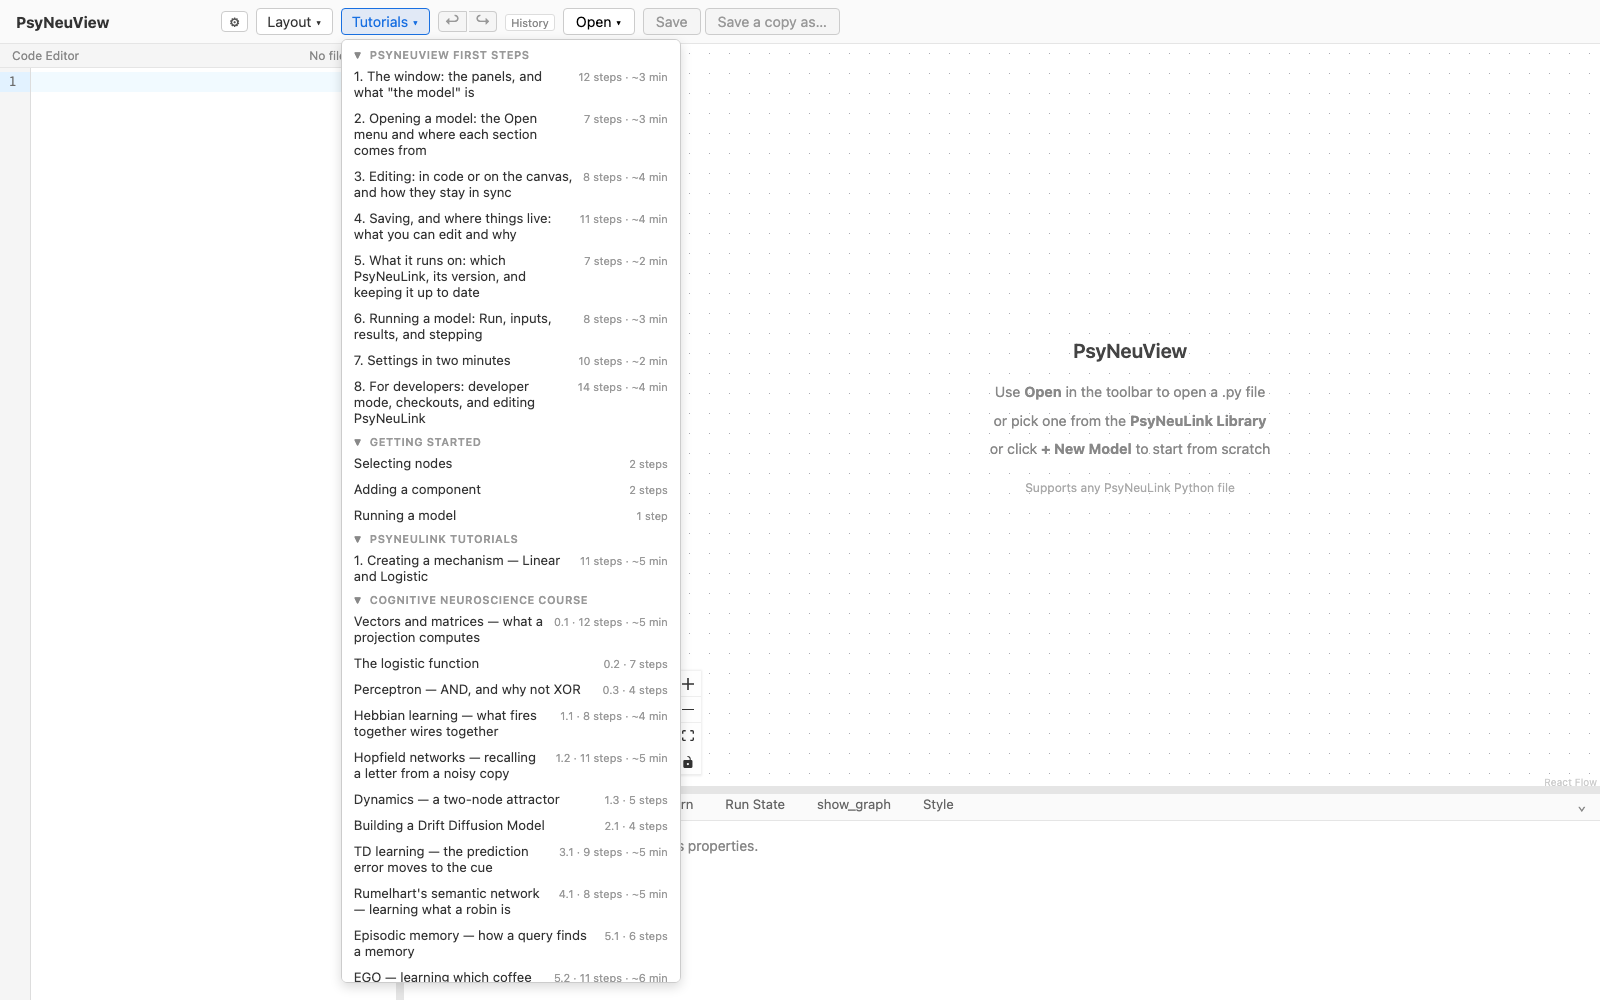
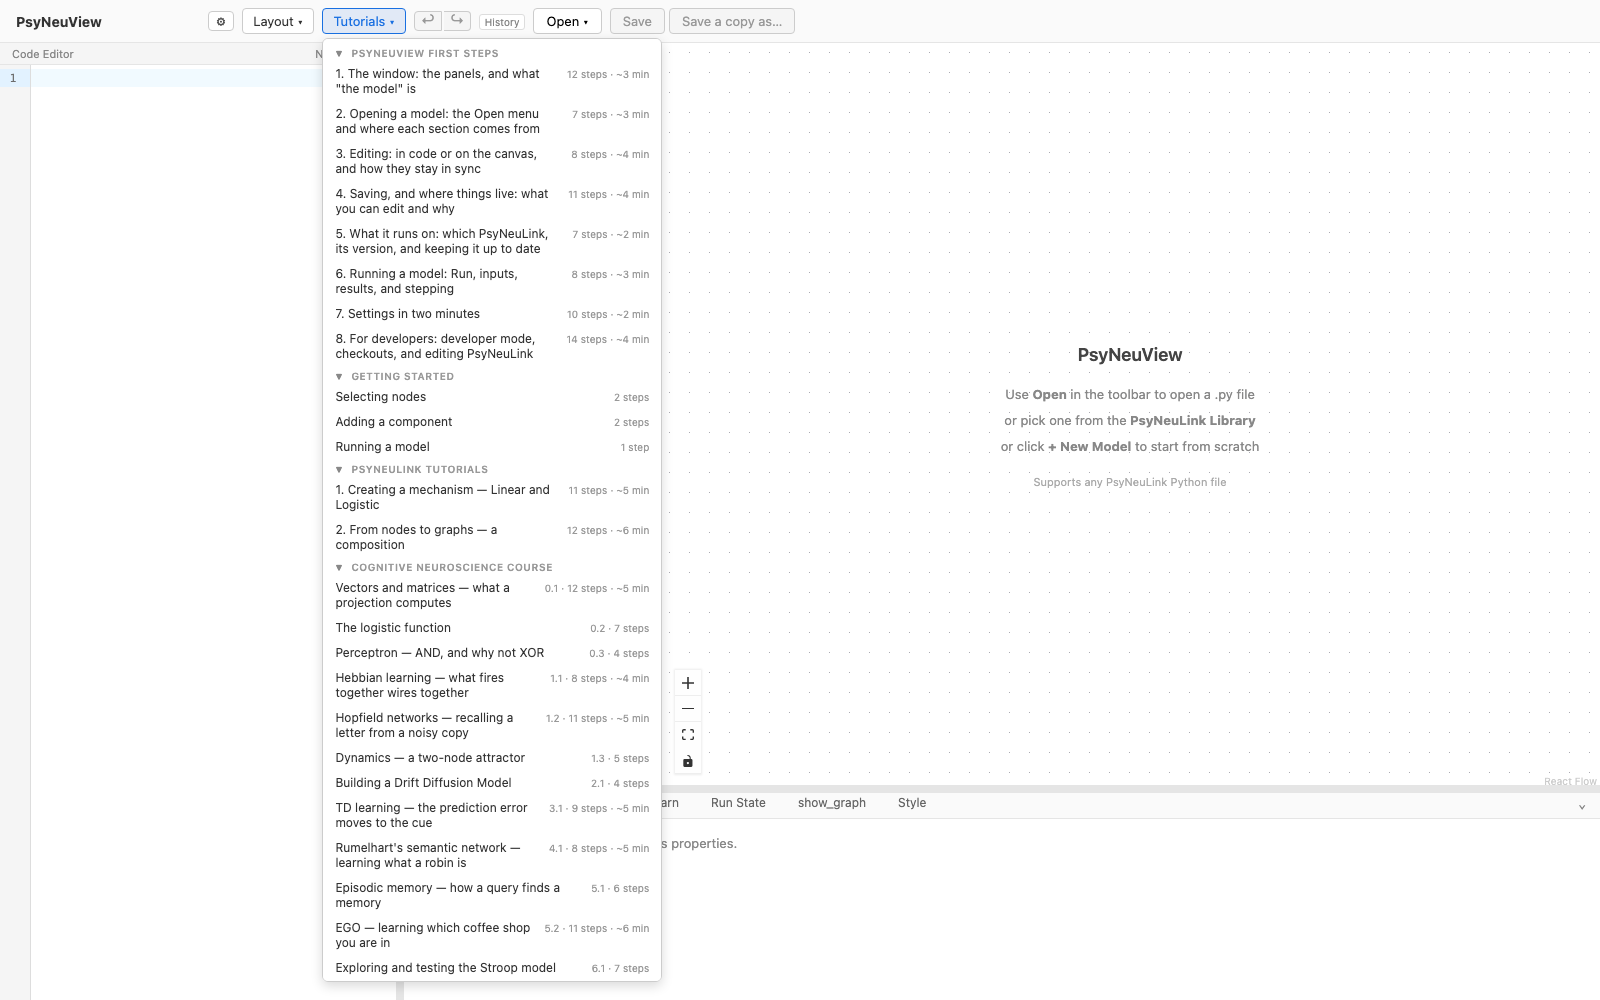
Tutorials e2e: drive the second PsyNeuLink lesson (#9)
Walks pnl-composition from its own YAML and asserts every run on the
model's own results: 4; the sweep -3, -1.5, 0, 1.5, 3; the two-unit
Logistic's 0.2689/0.0474 and 0.7311/0.9526; the step's 4.5e-5/0.99995.
Checks the menu lists it second. Captures the step screenshots, and the
menu screenshot now shows both lessons.

Refs #9

diff --git a/frontend/e2e/tutorials/pnl-composition.tutorial.spec.ts b/frontend/e2e/tutorials/pnl-composition.tutorial.spec.ts
@@ -1,0 +1,79 @@
+/**
+ * PsyNeuLink Tutorials, lesson 2: From nodes to graphs — a composition (#9).
+ *
+ * Driven from `src/walkthroughs/pnl-composition.yaml`, the file the app
+ * reads, so the walkthrough can't drift from the app. It builds from New
+ * Model and runs the notebook's compositions: 4 through two Linear nodes; a
+ * five-trial sweep from -3 to 3; a two-unit Logistic fed x and 3x; and the
+ * step mechanism (gain 100, midpoint 1) with [0.9, 1.1]. This asserts every
+ * output the instructions quote, on the model's own run results.
+ *
+ * Also checks the Tutorials menu lists the lesson second under PsyNeuLink
+ * Tutorials.
+ */
+// mutatingTest: the walkthrough creates a model, so it needs a clean slate.
+import { mutatingTest as test, expect } from "../test-base";
+import { loadWalkthrough, runWalkthrough } from "../tourDriver";
+import { fileURLToPath } from "url";
+import path from "path";
+import { mkdirSync } from "fs";
+
+const ASSETS = path.resolve(
+  path.dirname(fileURLToPath(import.meta.url)),
+  "../../../docs/tutorials/assets/tour",
+);
+mkdirSync(ASSETS, { recursive: true });
+const shot = (name: string) => path.join(ASSETS, name);
+
+const lesson = loadWalkthrough("pnl-composition");
+
+test.use({ viewport: { width: 1600, height: 1000 } });
+
+test.describe(`PsyNeuLink Tutorials: ${lesson.title}`, () => {
+  test("is listed second under PsyNeuLink Tutorials", async ({ page }) => {
+    await page.goto("/");
+    await page.getByTestId("walkthrough-menu").click();
+    const section = page.getByTestId("walkthrough-menu-list").getByTestId("walkthrough-group-psyneulink");
+    await expect(section).toBeVisible();
+    const rows = await section
+      .locator('[data-testid^="walkthrough-pnl-"]')
+      .evaluateAll((els) => els.map((e) => e.textContent ?? ""));
+    expect(rows[1]).toContain(`2. ${lesson.title}`);
+  });
+
+  test("builds a composition, gives it two units, and runs the notebook's numbers", async ({ page }) => {
+    // Keep every run's outputs, one vector per trial: the canvas's value
+    // pill only shows while the trace sits on a trial, so it can't be read
+    // back after the walkthrough.
+    const runs: number[][][] = [];
+    page.on("response", async (r) => {
+      if (r.url().includes("/api/model/run") && r.request().method() === "POST" && r.ok()) {
+        const body = (await r.json().catch(() => null)) as { results?: { output: number[][] }[] } | null;
+        if (body?.results) runs.push(body.results.map((t) => t.output.flat()));
+      }
+    });
+    await page.goto("/?tour=pnl-composition");
+    // No model is opened: the first step creates one.
+    await runWalkthrough(page, lesson, async (_step, index) => {
+      await page.waitForTimeout(300);
+      await page.screenshot({ path: shot(`pnl-composition-step-${index + 1}.png`) });
+    });
+    await expect(page.getByTestId("tour-bar")).toHaveCount(0, { timeout: 10000 });
+
+    // The notebook's numbers, measured on the model's own output rather than
+    // trusted from the instructions.
+    expect(runs.length, "four runs").toBe(4);
+    expect(runs[0], "4 through two Linear nodes").toEqual([[4]]);
+    expect(runs[1].flat(), "the sweep: each output equals its input").toEqual([-3, -1.5, 0, 1.5, 3]);
+    const logistic = runs[2];
+    expect(logistic.length, "two trials of two units").toBe(2);
+    expect(logistic[0][0], "Logistic of -1").toBeCloseTo(0.2689, 4);
+    expect(logistic[0][1], "Logistic of -3").toBeCloseTo(0.0474, 4);
+    expect(logistic[1][0], "Logistic of 1").toBeCloseTo(0.7311, 4);
+    expect(logistic[1][1], "Logistic of 3").toBeCloseTo(0.9526, 4);
+    const step = runs[3];
+    expect(step.length, "one trial of two units").toBe(1);
+    expect(step[0][0], "just below the step").toBeCloseTo(0.0000454, 6);
+    expect(step[0][1], "just above the step").toBeCloseTo(0.99995, 4);
+  });
+});
